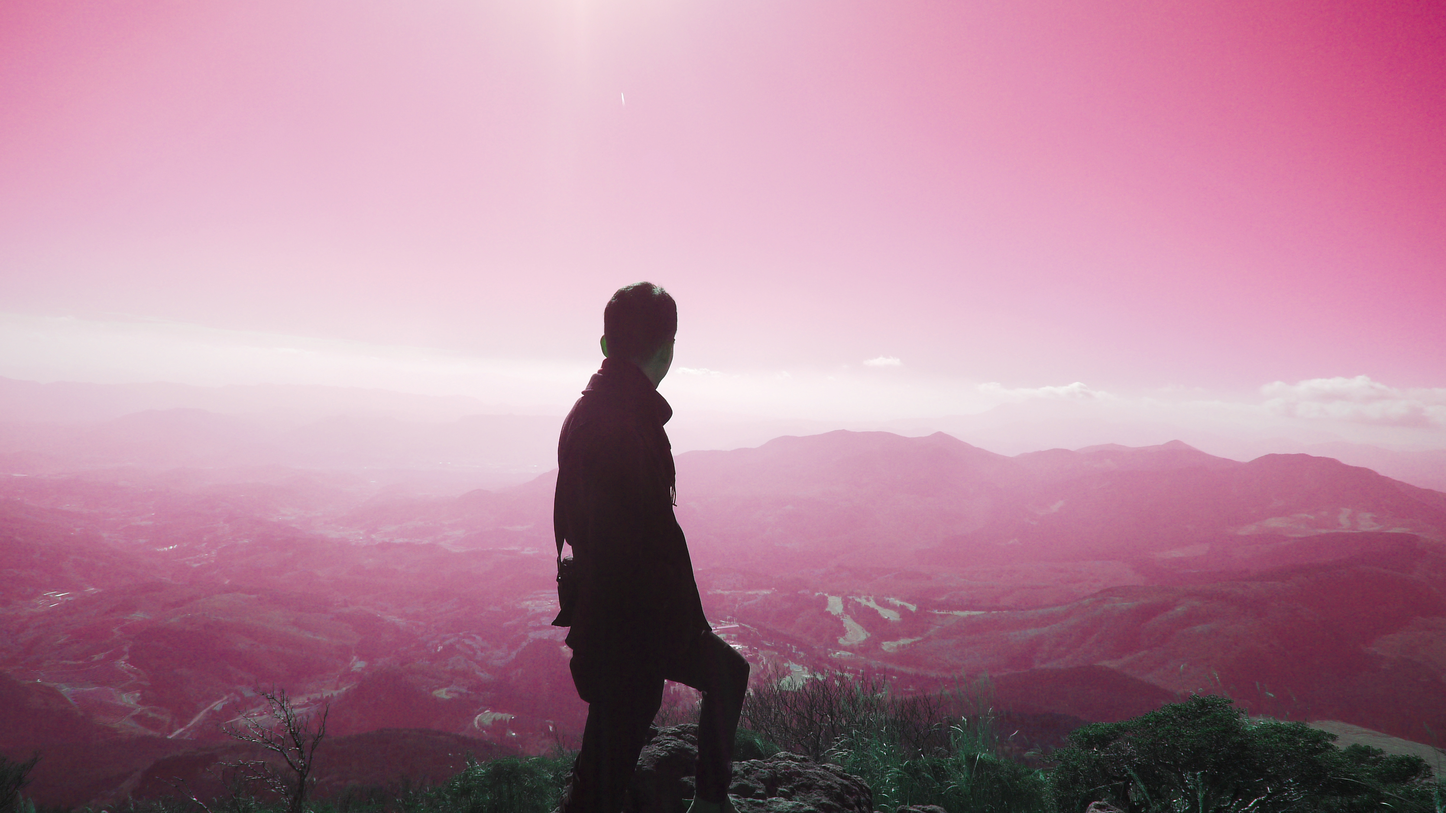
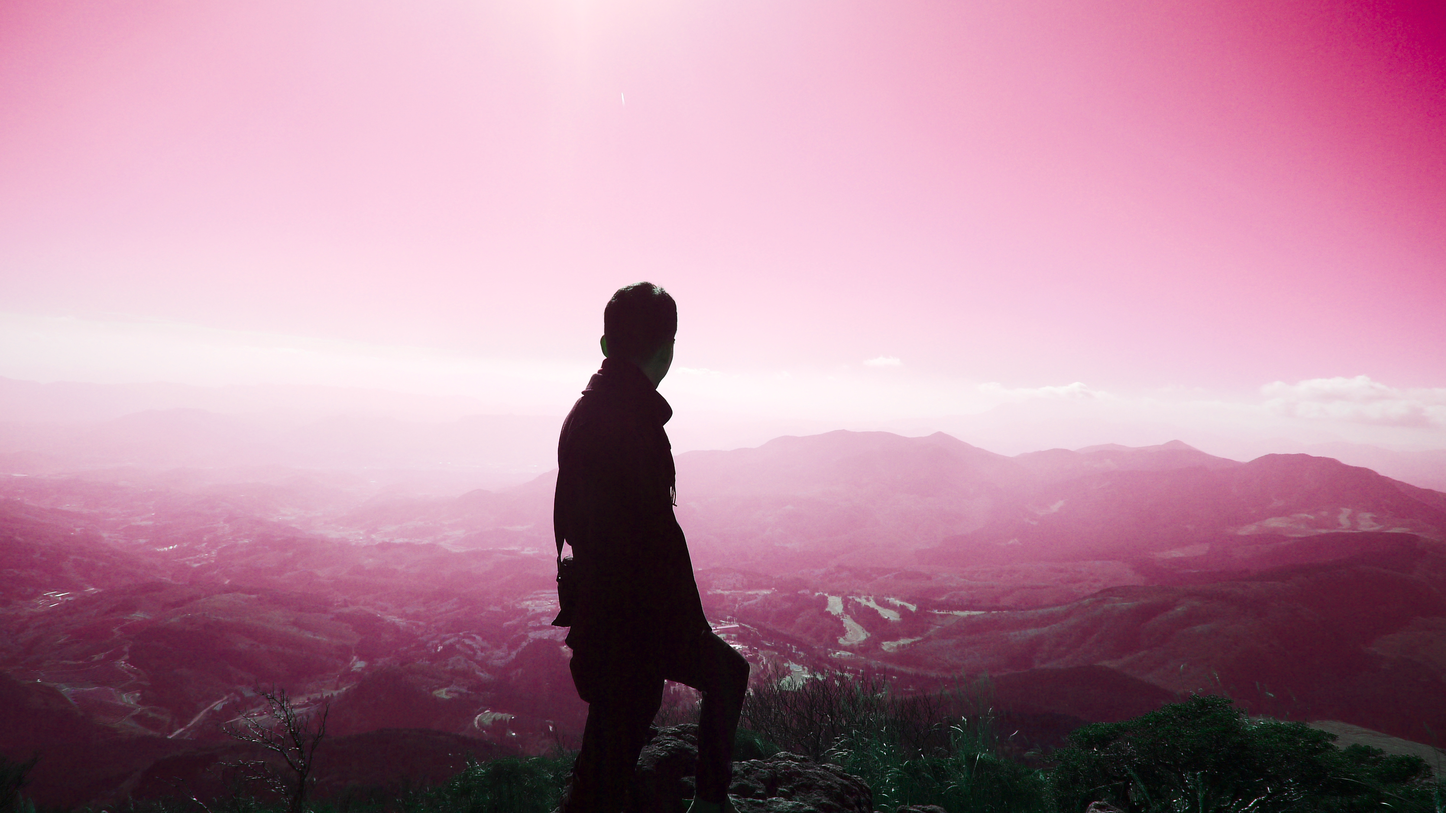
Added aboutme page

diff --git a/portfolio/index.html b/portfolio/index.html
@@ -5,40 +5,42 @@
     <meta name="viewport" content="width=device-width, initial-scale=1.0">
     <meta http-equiv="X-UA-Compatible" content="ie=edge">
     <title>JGDev Homepage</title>
-    <link rel="stylesheet" href="./css/main.css">
+    <link rel="stylesheet" href="/portfolio/css/main.css">
 </head>
 
-<body id="bg-img">
+<body id="bg-img-home">
     <header>
-        <img src="img/JGDev.svg" class="logo" alt="logo">
+        <a href="/portfolio/index.html">
+            <img src="/portfolio/img/JGDev.svg" class="logo" alt="logo">
+        </a>
     </header>
 
     <div class="buttons">
-            <img src="img/back-icon.svg" class="back-btn">
-            <img src="img/menu-icon.svg" class="menu-btn" alt="menu-icon">
+            <img src="/portfolio/img/back-icon.svg" class="back-btn">
+            <img src="/portfolio/img/menu-icon.svg" class="menu-btn" alt="menu-icon">
     </div>
         
     <nav class="menu">
 
         <ul class="menu-nav">
             <li class="nav-item current">
-                <a href="." class="nav-link">Home</a>
+                <a href="#" class="nav-link" id="home-link">Home</a>
             </li>
             <li class="nav-item">
-                <a href="#" class="nav-link">About Me</a>
+                <a href="html/about-me.html" class="nav-link" id="about-me-link">About Me</a>
             </li>
             <li class="nav-item">
-                <a href="#" class="nav-link">My Work</a>
+                <a href="#" class="nav-link" id="my-work-link">My Work</a>
             </li>
             <li class="nav-item">
-                <a href="#" class="nav-link">Contact Me</a>
+                <a href="#" class="nav-link" id='contact-me-link'>Contact Me</a>
             </li>
         </ul>
     </nav>
     <main id="home">
-        <h1 class="lg-heading">Hi, I'm Roman Kornig</h1>
+        <h1 class="lg-heading">Hi, I'm <span class="highlight">Roman Kornig</span></h1>
         <p class="sm-heading">Web Developer, Interpreter, Traveller</p>
     </main>
 </body>
-<script src="js/main.js"></script>
+<script src="/portfolio/js/main.js"></script>
 </html>

diff --git a/portfolio/scss/main.scss b/portfolio/scss/main.scss
@@ -13,7 +13,7 @@
 
 @mixin background {
     @if $show-home-image {
-        &#bg-img {
+        &#bg-img-home {
             background: $home-image;
             background-attachment: fixed;
             background-repeat: no-repeat;
@@ -26,7 +26,24 @@
                 right: 0;
                 width: 100%;
                 height: 100%;
-                background: rgba($color: #000000, $alpha: $overlay-opacity);
+                background: rgba($color: $overlay-color, $alpha: $overlay-opacity);
+                z-index: -1;
+            }
+        }
+        &#bg-img-aboutme {
+            background: $aboutme-image;
+            background-attachment: fixed;
+            background-repeat: no-repeat;
+            background-position: center;
+            background-size: cover;
+            &:after {
+                content: "";
+                position: absolute;
+                top: 0;
+                right: 0;
+                width: 100%;
+                height: 100%;
+                background: rgba($color: $overlay-color, $alpha: 0.6);
                 z-index: -1;
             }
         }
@@ -36,12 +53,17 @@
 
 body{
     @include background;
-    color: $primary-color;
+    color: $secondary-color;
     height: 100%;
     width: 100%;
     margin: 0;
     font-family: 'Noto Sans', sans-serif;
+
+    .highlight{
+        color: $primary-color;
+    }
 }
+
 
 //text
 a {
@@ -72,12 +94,12 @@ main {
     &#home{
         overflow: hidden;
         position: absolute;    
-        top: 50vh;
+        top: calc(50vh - 2rem);
     }
     h1 {
         margin: 0;
         &.lg-heading {
-           font-size: 4.5vh;
+            font-size: $lg-heading-size;
        } 
     }
     p{
@@ -85,7 +107,7 @@ main {
         color: $secondary-color;
         &.sm-heading {
             margin-top: 0.3rem;
-            font-size: 2.5vh;
+            font-size: $sm-heading-size;
         }
     }
 }

diff --git a/portfolio/css/main.css b/portfolio/css/main.css
@@ -68,30 +68,51 @@
       line-height: 4.5rem;
       text-align: center; } }
 
+@media screen and (max-width: 768px) {
+  main#home {
+    text-align: center; } }
+
 * {
   box-sizing: border-box; }
 
 body {
-  color: #26F6A1;
+  color: white;
   height: 100%;
   width: 100%;
   margin: 0;
   font-family: 'Noto Sans', sans-serif; }
-  body#bg-img {
+  body#bg-img-home {
     background: url(/portfolio/img/homepage.jpg);
     background-attachment: fixed;
     background-repeat: no-repeat;
     background-position: center;
     background-size: cover; }
-    body#bg-img:after {
+    body#bg-img-home:after {
       content: "";
       position: absolute;
       top: 0;
       right: 0;
       width: 100%;
       height: 100%;
-      background: rgba(0, 0, 0, 0.4);
+      background: rgba(0, 0, 0, 0.5);
       z-index: -1; }
+  body#bg-img-aboutme {
+    background: url(/portfolio/img/aboutme.jpg);
+    background-attachment: fixed;
+    background-repeat: no-repeat;
+    background-position: center;
+    background-size: cover; }
+    body#bg-img-aboutme:after {
+      content: "";
+      position: absolute;
+      top: 0;
+      right: 0;
+      width: 100%;
+      height: 100%;
+      background: rgba(0, 0, 0, 0.6);
+      z-index: -1; }
+  body .highlight {
+    color: #26F6A1; }
 
 a {
   color: white;
@@ -110,14 +131,14 @@ main {
   main#home {
     overflow: hidden;
     position: absolute;
-    top: 50vh; }
+    top: calc(50vh - 2rem); }
   main h1 {
     margin: 0; }
     main h1.lg-heading {
-      font-size: 4.5vh; }
+      font-size: 2rem; }
   main p {
     margin: 0;
     color: white; }
     main p.sm-heading {
       margin-top: 0.3rem;
-      font-size: 2.5vh; }
+      font-size: 1rem; }

diff --git a/portfolio/js/main.js b/portfolio/js/main.js
@@ -1,28 +1,40 @@
 const menu = document.querySelector('.menu');
+const body = document.querySelector('body');
 const menuBtn = document.querySelector('.menu-btn');
 const backBtn = document.querySelector('.back-btn');
 const menuNav = document.querySelector('.menu-nav');
 const navItem = document.querySelectorAll('.nav-item');
+const currPage = document.querySelector('.current')
 
 //Inital state of menu
 let showMenu = false;
 
 menuBtn.addEventListener('click', toggleMenu);
+currPage.addEventListener('click', closeMenu);
+
 
 function toggleMenu() {
     if(!showMenu) {
-        menuBtn.classList.add('close');
-        backBtn.classList.add('show');
-        menu.classList.add('show');
-        menuNav.classList.add('show');
-        navItem.forEach(item => item.classList.add('show'));
-        showMenu = true;
+        openMenu();
     } else {
-        menuBtn.classList.remove('close');
-        backBtn.classList.remove('show');
-        menu.classList.remove('show');
-        menuNav.classList.remove('show');
-        navItem.forEach(item => item.classList.remove('show'));
-        showMenu = false;
+        closeMenu();
     }
+}
+
+function openMenu() {
+    menuBtn.classList.add('close');
+    backBtn.classList.add('show');
+    menu.classList.add('show');
+    menuNav.classList.add('show');
+    navItem.forEach(item => item.classList.add('show'));
+    showMenu = true;
+}
+
+function closeMenu() {
+    menuBtn.classList.remove('close');
+    backBtn.classList.remove('show');
+    menu.classList.remove('show');
+    menuNav.classList.remove('show');
+    navItem.forEach(item => item.classList.remove('show'));
+    showMenu = false;  
 }

diff --git a/portfolio/html/about-me.html b/portfolio/html/about-me.html
@@ -1,0 +1,46 @@
+<!DOCTYPE html>
+<html lang="en">
+<head>
+    <meta charset="UTF-8">
+    <meta name="viewport" content="width=device-width, initial-scale=1.0">
+    <meta http-equiv="X-UA-Compatible" content="ie=edge">
+    <title>JGDev Homepage</title>
+    <link rel="stylesheet" href="/portfolio/css/main.css">
+</head>
+
+<body id="bg-img-aboutme">
+    <header>
+        <a href="/portfolio/index.html">
+            <img src="/portfolio/img/JGDev.svg" class="logo" alt="logo">
+        </a>
+    </header>
+
+    <div class="buttons">
+            <img src="/portfolio/img/back-icon.svg" class="back-btn">
+            <img src="/portfolio/img/menu-icon.svg" class="menu-btn" alt="menu-icon">
+    </div>
+        
+    <nav class="menu">
+
+        <ul class="menu-nav">
+            <li class="nav-item">
+                <a href="/portfolio/index.html" class="nav-link" id="home-link">Home</a>
+            </li>
+            <li class="nav-item current">
+                <a href="#" class="nav-link" id="about-me-link">About Me</a>
+            </li>
+            <li class="nav-item">
+                <a href="#" class="nav-link" id="my-work-link">My Work</a>
+            </li>
+            <li class="nav-item">
+                <a href="#" class="nav-link" id='contact-me-link'>Contact Me</a>
+            </li>
+        </ul>
+    </nav>
+    <main id="home">
+        <h1 class="lg-heading">About <span class="highlight">Me</span></h1>
+        <p class="sm-heading">Web Developer, Interpreter, Traveller</p>
+    </main>
+</body>
+<script src="/portfolio/js/main.js"></script>
+</html>

diff --git a/portfolio/scss/_mobile.scss b/portfolio/scss/_mobile.scss
@@ -4,7 +4,17 @@
     main {
         &#home {
             text-align: center;
+            // .lg-heading {
+            //     font-size: 1.5rem;
+            // }
+    
+            // .sm-heading {
+            //     font-size: 0.8rem;
+            // }
         }
+        
+            
+        
     }
 
     .menu {
@@ -16,6 +26,14 @@
             line-height: 4.5rem;
             text-align: center;
             // padding: 0;
+        }
+    }
+}
+
+@include mediaMd {
+    main {
+        &#home {
+            text-align: center;
         }
     }
 }

diff --git a/portfolio/scss/_config.scss b/portfolio/scss/_config.scss
@@ -1,10 +1,14 @@
 $primary-color: #26F6A1;
 $secondary-color: white;
+$overlay-color: rgb(0, 0, 0);
 $left-right-padding: 1.5rem;
 $top-padding: 1.5rem;
 $show-home-image: true;
 $home-image: url(/portfolio/img/homepage.jpg);
-$overlay-opacity: 0.4;
+$aboutme-image: url(/portfolio/img/aboutme.jpg);
+$overlay-opacity: 0.5;
+$lg-heading-size: 2rem;
+$sm-heading-size: 1rem;
 
 @mixin mediaSm {
     @media screen and (max-width: 520px){
